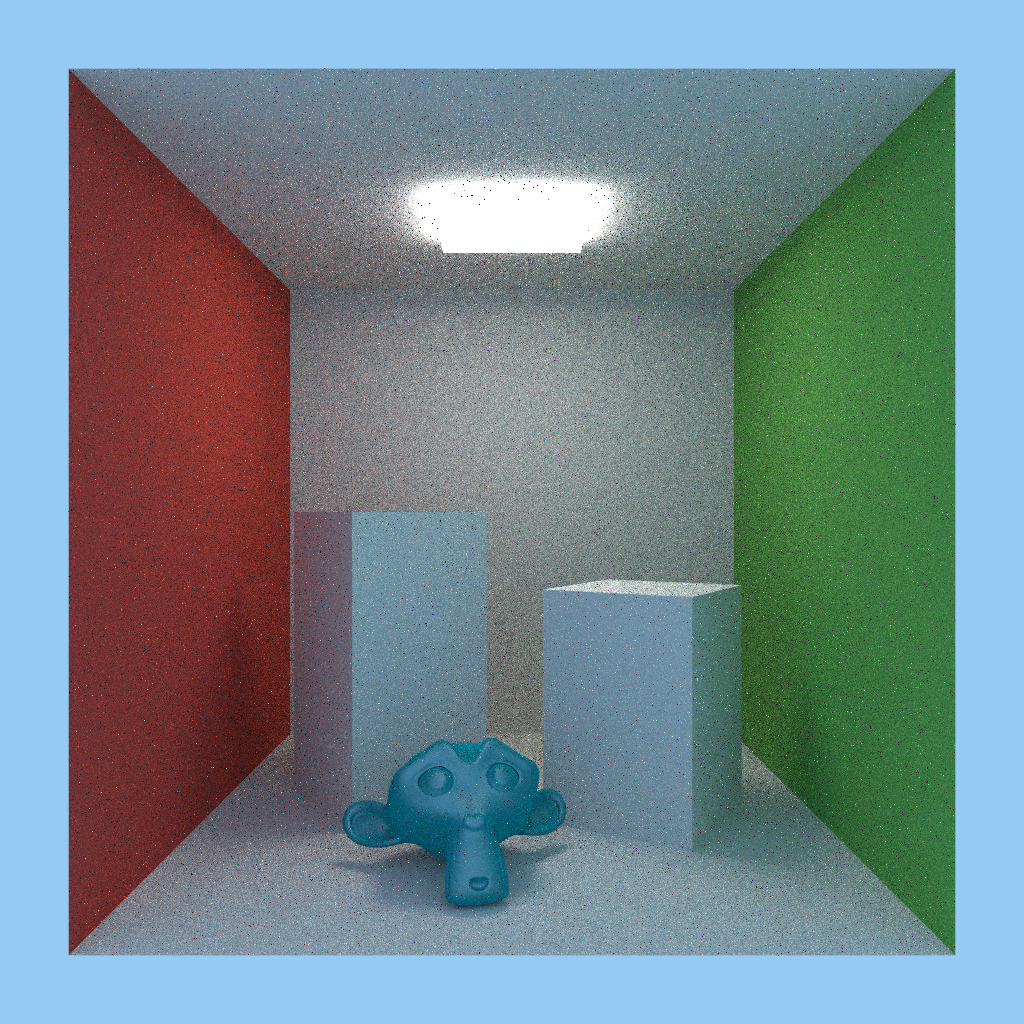
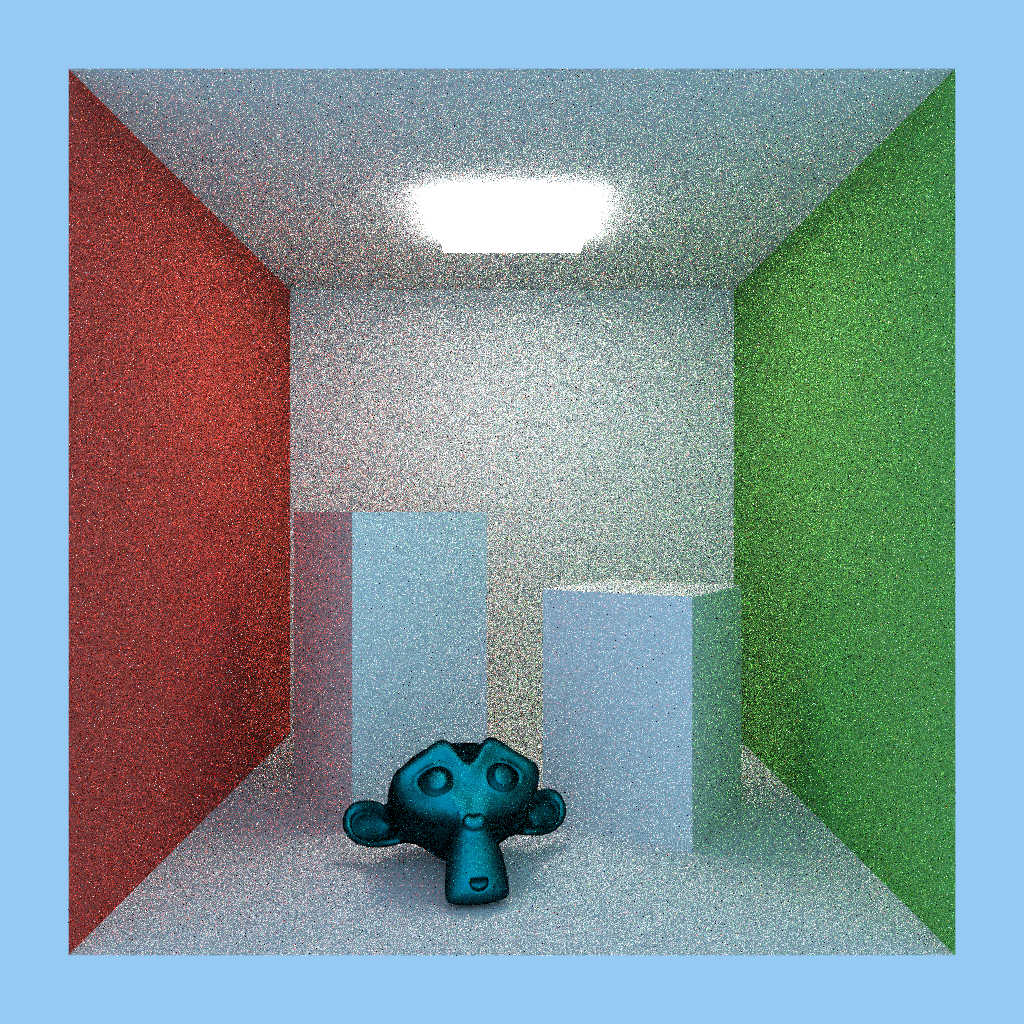
fixed Disney BRDF (Fresnel calc was borked)

diff --git a/src/brdf.cpp b/src/brdf.cpp
@@ -5,6 +5,11 @@ static constexpr float TWO_PI	= 2.0F * PI;
 static constexpr float INV_PI	= 1.0F / PI;
 static constexpr float INV_2PI	= 1.0F / TWO_PI;
 
+float luma(glm::vec3 const& color)
+{
+	return glm::dot(color, glm::vec3(0.299F, 0.587F, 0.114F));
+}
+
 glm::vec3 sampleCosineWeightedHemisphere(Sampler& sampler)
 {
 	glm::vec2 const eta = sampler.sample2D();
@@ -36,11 +41,11 @@ float DGGX(glm::vec3 const& m, glm::vec3 const& n, float alpha)
 	return a2 / (PI * d * d);
 }
 
-float FSchlick(glm::vec3 const& v, glm::vec3 const& n, float F)
+glm::vec3 FSchlick(glm::vec3 const& v, glm::vec3 const& n, glm::vec3 const& F)
 {
 	float c = 1.0F - glm::clamp(glm::dot(n, v), 0.0F, 1.0F);
 	float c5 = c * c * c * c * c;
-	return 1.0F + (F - 1.0F) * c5;
+	return F + (1.0F - F) * c5;
 }
 
 float G1Schlick(glm::vec3 const& v, glm::vec3 const& n, float alpha)
@@ -61,63 +66,65 @@ glm::vec3 evaluateLambertianDiffuseBRDF(Sampler& sampler, Material const& materi
 	return (brdf * glm::dot(wo, n)) / pdf;
 }
 
-glm::vec3 evaluateDielectricMicrofacetBRDF(Sampler& sampler, Material const& material, glm::vec3 const& wi, glm::vec3 const& n, glm::vec3& wo)
+glm::vec3 evaluateDisneyBRDF(Sampler& sampler, Material const& material, glm::vec3 const& wi, glm::vec3 const& n, glm::vec3& wo)
 {
-	// Set up microfacet model parameters
+	// Set up microfacet model parameters for Disney BSDF
 	float const alpha = material.roughness * material.roughness;
 
-	// Sample Diffuse & GGX lobes
-	glm::vec3 const m = sampleGGX(sampler, wi, alpha);
-	glm::vec3 const woDiffuse = sampleCosineWeightedHemisphere(sampler);
-	glm::vec3 const woSpecular = glm::reflect(-wi, m);
+	// Sample GGX lobe
+	glm::vec3 const m = sampleGGX(sampler, wi, alpha); // TODO(nemjit001): sample visible normals for reduced noise
 
-	// Calculate F0 for dielectric material
+	// Calculate F0 constants for dielectric material
 	float const eta1 = material.IOR - 1.0F;
 	float const eta2 = material.IOR + 1.0F;
 	float const iorRatio = eta1 / eta2;
-	float const F0 = iorRatio * iorRatio;
 
-	// Calculate Microfacet terms
-	float const D = DGGX(m, n, alpha);
-	float const G = G1Schlick(wi, m, alpha) * G1Schlick(woSpecular, m, alpha); // Smith's G term
-	float const F = FSchlick(wi, m, F0);
+	// Lerp between dielectric and metallic F0
+	glm::vec3 const F0 = glm::mix(glm::vec3(iorRatio * iorRatio), material.baseColor, material.metallic);
 
-	// Calculate MIS PDF weights
-	float const diffuseWeight = material.roughness;		// Diffuse chance
-	float const specularWeight = 1.0F - diffuseWeight;	// Specular chance
+	// Calculate Microfacet Fresnel
+	glm::vec3 const F = FSchlick(wi, m, F0);
 
-	float const pdfDiffuse = glm::dot(woDiffuse, n) * INV_PI;
-	float const pdfSpecular = (D * glm::dot(m, n)) / (4.0F * glm::abs(glm::dot(woSpecular, m)));
+	// Set up sampling weights
+	// TODO(nemjit001): Check why this works as MIS without PDF eval in weight calc
+	float diffW = 1.0F - material.metallic;
+	float specW = luma(F);
+	float const invW = 1.0F / (diffW + specW);
+	diffW *= invW;
+	specW *= invW;
 
-	// Calculate composite PDF for MIS
-	float const compositePDF = (diffuseWeight * pdfDiffuse) + (specularWeight * pdfSpecular);
-
-	// Perform MIS for lambertian & GGX lobes
 	glm::vec3 brdf{};
 	float pdf{};
-	float weightMIS{};
-	if (sampler.sample() < diffuseWeight)
+	if (sampler.sample() < diffW)
 	{
-		// Evaluate diffuse
-		wo = woDiffuse;
+		// Sample diffuse lobe
+		wo = sampleCosineWeightedHemisphere(sampler);
 
+		// Calculate retroreflective highlight
 		float const F90 = 0.5F + 2.0F * material.roughness * glm::dot(wi, m) * glm::dot(wi, m);
-		float const a = FSchlick(wi, n, F90);
-		float const b = FSchlick(wo, n, F90);
+		glm::vec3 const a = FSchlick(wi, m, glm::vec3(F90));
+		glm::vec3 const b = FSchlick(wo, m, glm::vec3(F90));
 
+		// Lambertian diffuse w/ highlight
 		brdf = material.baseColor * INV_PI * a * b;
-		pdf = pdfDiffuse;
-		weightMIS = (diffuseWeight * pdfDiffuse) / compositePDF;
+		pdf = glm::dot(wo, n) * INV_PI;
+		pdf *= diffW; // Apply diffuse MIS weight
 	}
 	else
 	{
-		// Evaluate specular
-		wo = woSpecular;
+		// Evaluate specular direction
+		wo = glm::reflect(-wi, m);
 
-		brdf = glm::vec3((D * G * F) / (4.0F * glm::abs(glm::dot(wi, n)) * glm::abs(glm::dot(wo, n))));
-		pdf = pdfSpecular;
-		weightMIS = (specularWeight * pdfSpecular) / compositePDF;
+		// Calculate D and G terms w/ adjusted g-term alpha
+		float const alpha_g = glm::pow(0.5F + 0.5F * alpha, 2.0F);
+		float const D = DGGX(m, n, alpha);
+		float const G = G1Schlick(wi, m, alpha) * G1Schlick(wo, m, alpha_g); // Smith's G term
+
+		// Cook-Torrance BSDF using Walter et al. formulation
+		brdf = (D * G * F) / (4.0F * glm::abs(glm::dot(wi, n)) * glm::abs(glm::dot(wo, n)));
+		pdf = (D * glm::dot(m, n)) / (4.0F * glm::abs(glm::dot(wo, m)));
+		pdf *= specW; // Apply specular MIS weight
 	}
 
-	return weightMIS * ((brdf * glm::dot(wo, n)) / pdf);
+	return ((brdf * glm::dot(wo, n)) / pdf);
 }

diff --git a/src/integrator.cpp b/src/integrator.cpp
@@ -135,7 +135,7 @@ glm::vec3 PathTracedIntegrator::trace(Ray const& ray, Sampler& sampler) const
 			glm::vec3 const shadingNormal = iTBN * N;
 			glm::vec3 const wi = iTBN * -rayDirection;
 			glm::vec3 wo;
-			throughput *= evaluateDielectricMicrofacetBRDF(sampler, material, wi, shadingNormal, wo);
+			throughput *= evaluateDisneyBRDF(sampler, material, wi, shadingNormal, wo);
 
 			// Set up outgoing ray
 			glm::vec3 const D = TBN * wo;

diff --git a/src/brdf.hpp b/src/brdf.hpp
@@ -7,4 +7,4 @@
 
 glm::vec3 evaluateLambertianDiffuseBRDF(Sampler& sampler, Material const& material, glm::vec3 const& wi, glm::vec3 const& n, glm::vec3& wo);
 
-glm::vec3 evaluateDielectricMicrofacetBRDF(Sampler& sampler, Material const& material, glm::vec3 const& wi, glm::vec3 const& n, glm::vec3& wo);
+glm::vec3 evaluateDisneyBRDF(Sampler& sampler, Material const& material, glm::vec3 const& wi, glm::vec3 const& n, glm::vec3& wo);

diff --git a/src/main.cpp b/src/main.cpp
@@ -18,7 +18,7 @@ int main(int argc, char **argv)
 	config.filename = "render.png";
 	config.resolutionX = 1024;
 	config.resolutionY = 1024;
-	config.sampleCount = 256;
+	config.sampleCount = 128;
 
 	printf("Render config\n");
 	printf("  Resolution X: %u\n", config.resolutionX);

diff --git a/README.md b/README.md
@@ -1,3 +1,3 @@
 # Path Tracer
 
-![Sample render rendered with 128 SPP](./render.png)
+![Sample render rendered with 128 SPP @ 1024x1024](./render.png)
